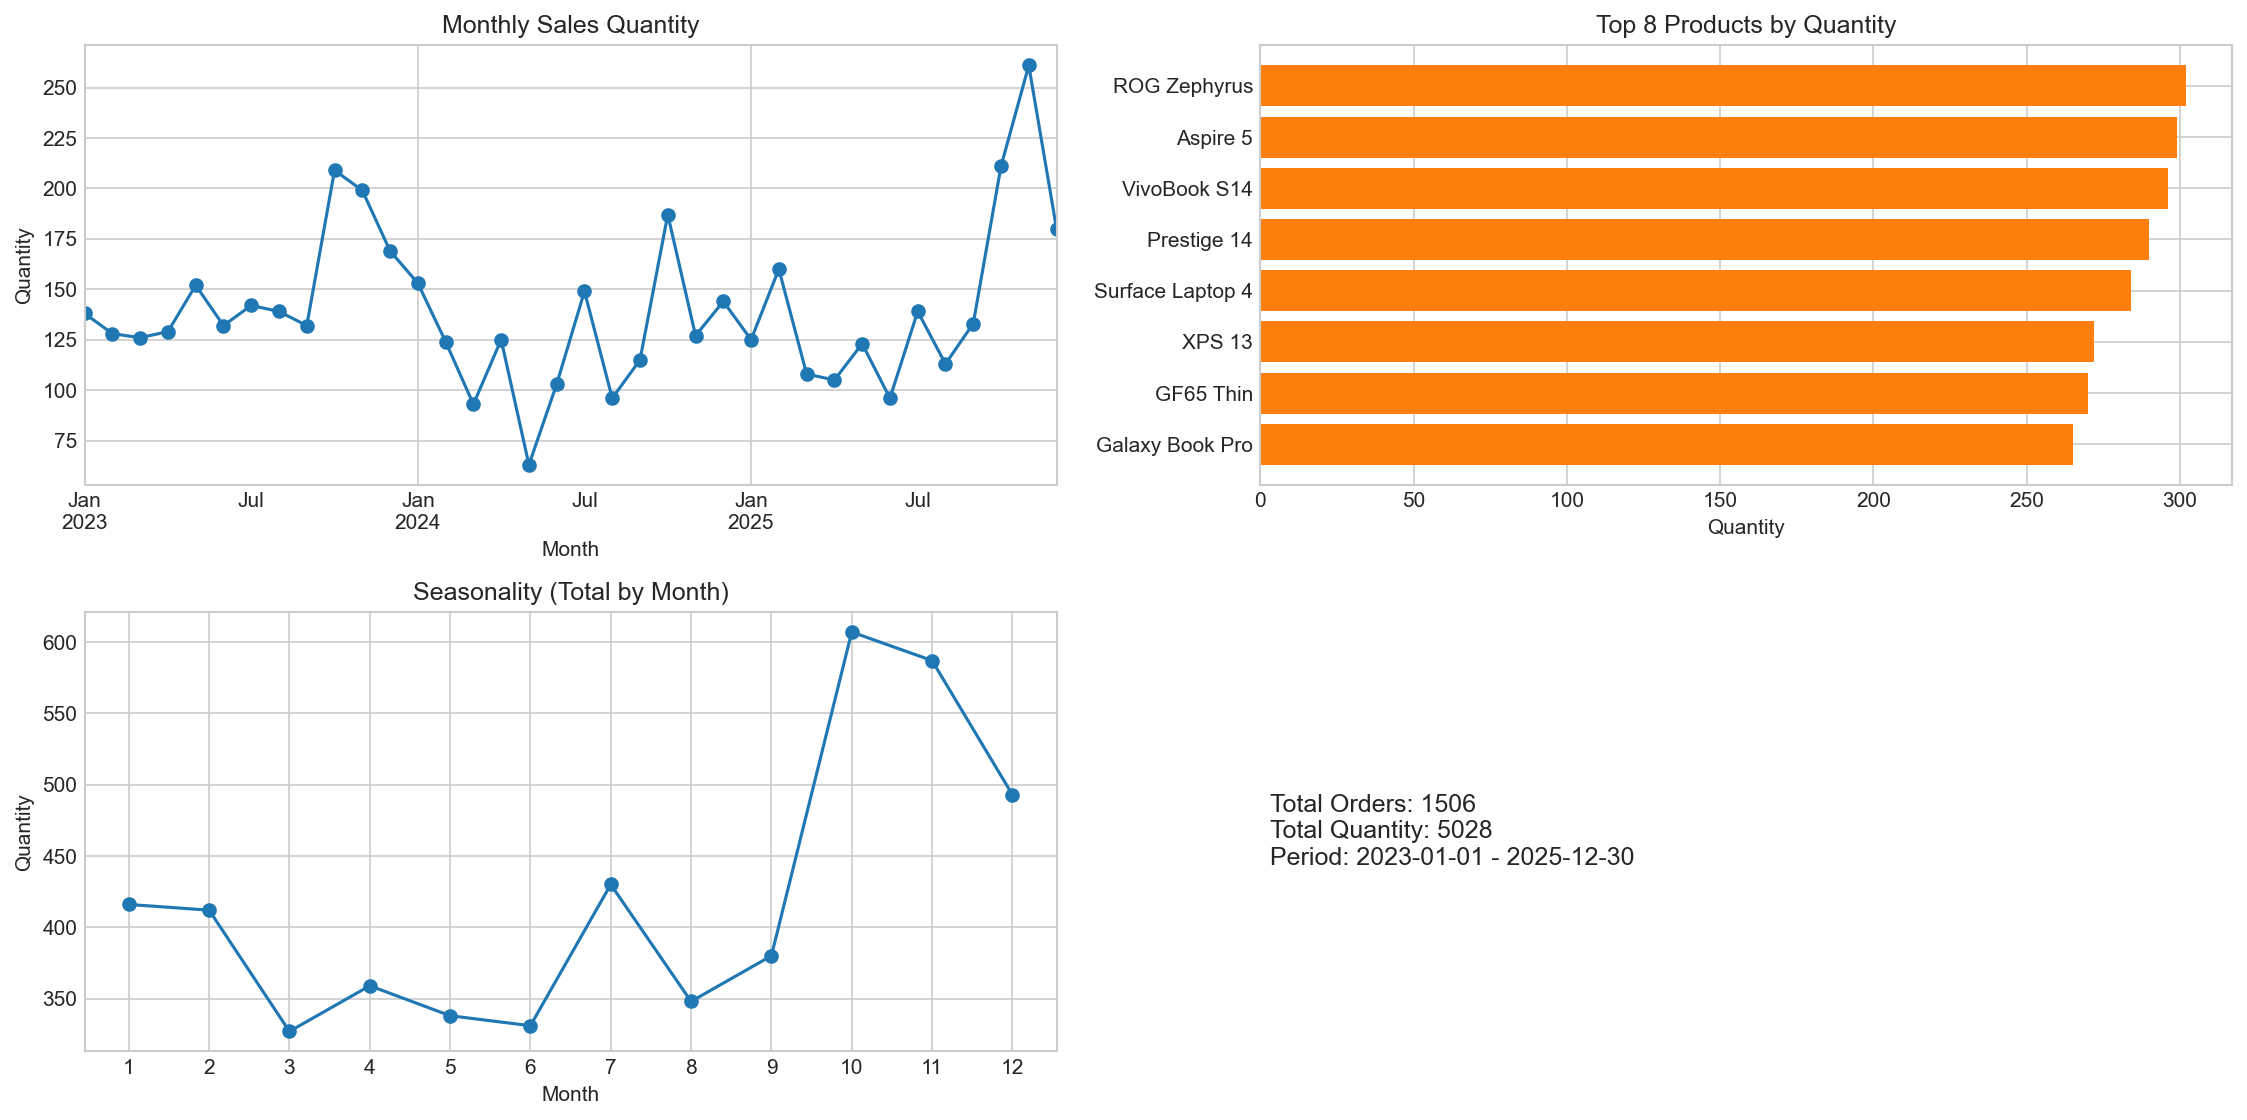
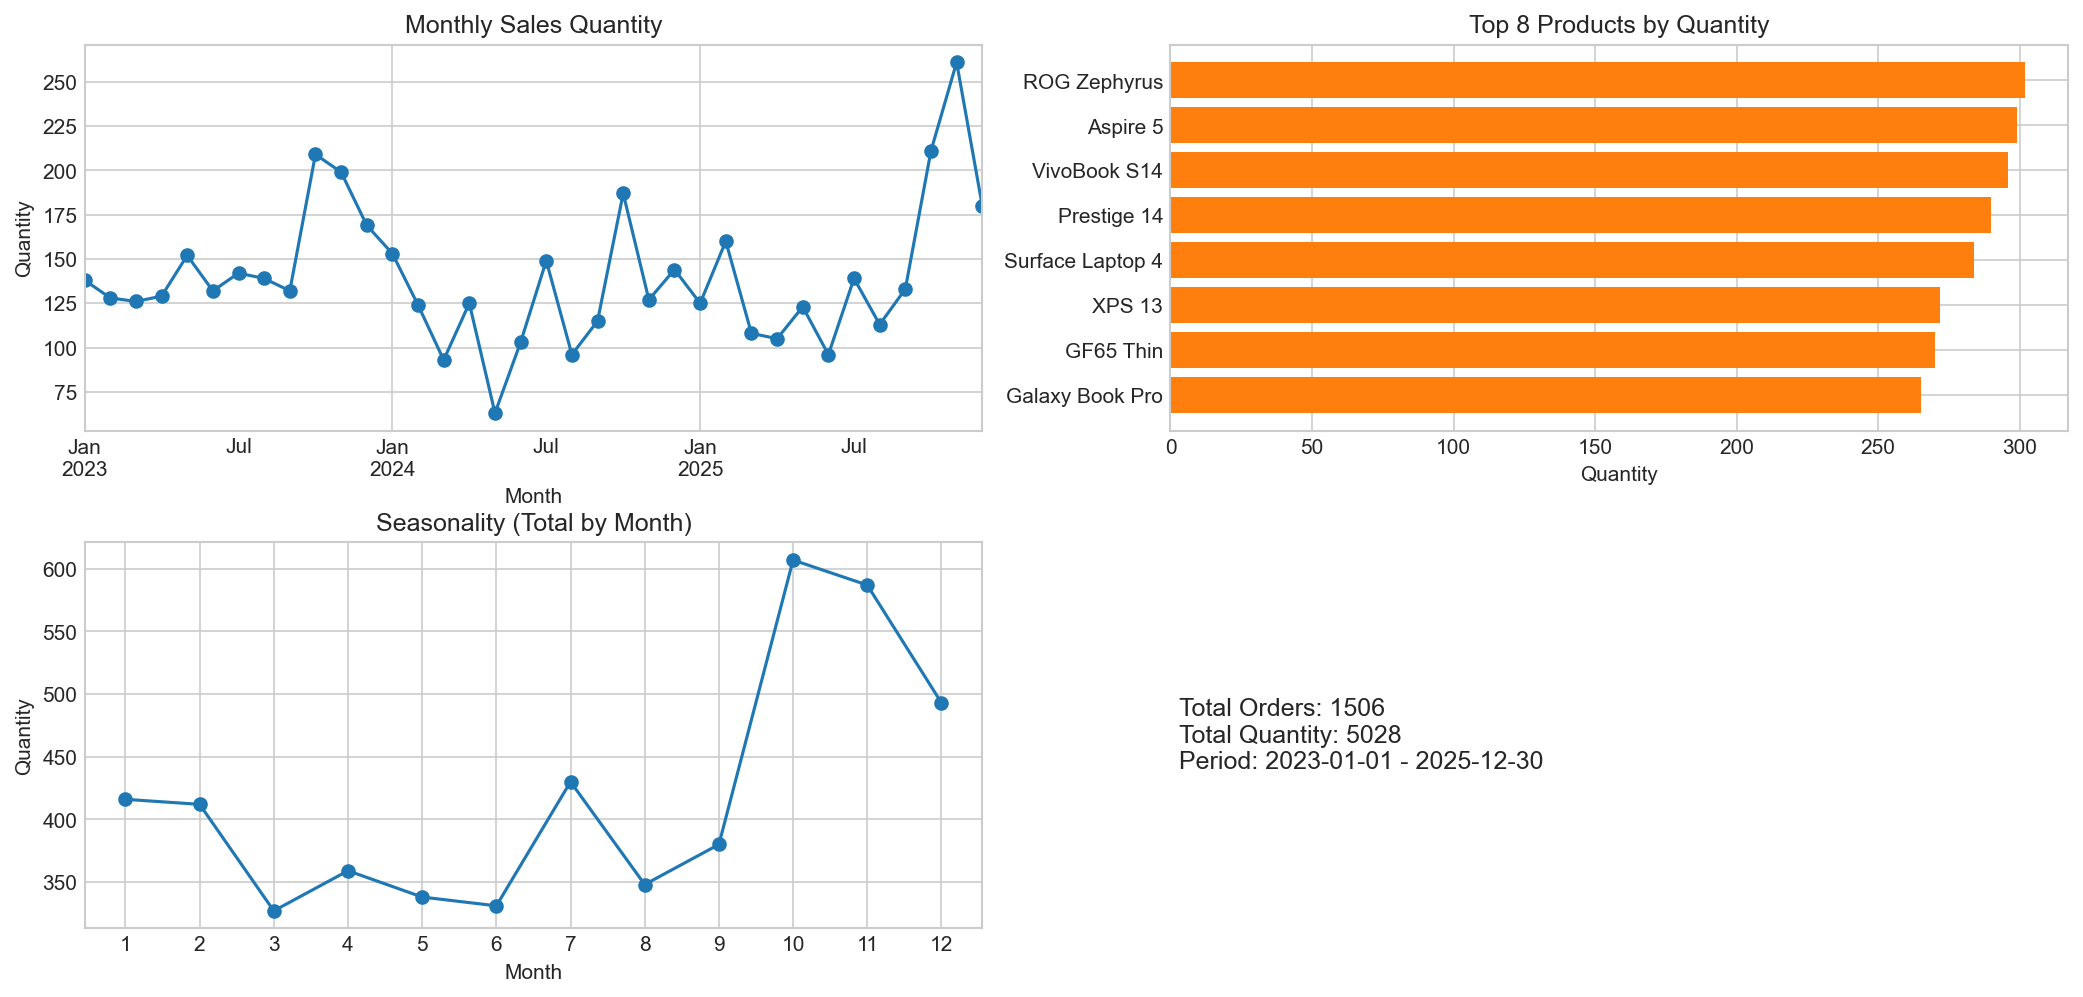
Creating Critical Stock Level Menu

diff --git a/main.py b/main.py
@@ -5,14 +5,17 @@ from orders.sales_manager import SalesManager
 from orders.sales_history import generate_random_sales
 from orders.purchase_manager import show_purchases
 from orders.sales_analytics import show_dashboard
+from inventory.stock_configurator import StockConfigurator
+
 
 def main_menu():
     inventory = InventoryManager()
     sales = SalesManager(inventory)
+    configurator = StockConfigurator(inventory)  # use shared InventoryManager instance
 
     while True:
         print("\n=== INVENTORY MANAGEMENT SYSTEM ===")
-        print("1. View Inventory")
+        print("1. Inventory Management")
         print("2. Create Sales Order")
         print("3. View Sales Orders")
         print("4. View Purchase Orders")
@@ -22,12 +25,28 @@ def main_menu():
         choice = input("Select an option: ").strip()
 
         if choice == "1":
-            inventory.show_inventory()
+            # Inventory sub-menu (loop until user returns to main menu)
+            while True:
+                print("\n--- Inventory ---")
+                print("A. View Current Stock Levels")
+                print("B. Configure Critical Stock Levels")
+                print("C. Back to Main Menu")
+                sub_choice = input("Select an option: ").strip().upper()
+
+                if sub_choice == "A":
+                    inventory.show_inventory()
+                elif sub_choice == "B":
+                    pid = input("Enter Product ID to configure: ").strip()
+                    configurator.define_critical_stock(pid)
+                elif sub_choice == "C":
+                    break
+                else:
+                    print("❌ Invalid sub-choice. Try again.")
 
         elif choice == "2":
             # fully working CLI for sales order creation
             sales.create_order_cli()
-        
+
         elif choice == "3":
             sales.show_orders()
 
@@ -48,9 +67,9 @@ def main_menu():
         elif choice == "7":
             print("Bye!")
             break
-        
         else:
-            print("Invalid choice. Try again.")
+            print("❌ Invalid choice. Try again.")
+
 
 if __name__ == "__main__":
     main_menu()

diff --git a/inventory/stock_configurator.py b/inventory/stock_configurator.py
@@ -1,0 +1,43 @@
+from inventory.inventory_manager import InventoryManager
+
+
+class StockConfigurator:
+    """Interactive helper to configure critical stock levels for products.
+
+    Accepts an `InventoryManager` instance to operate on the shared dataset.
+    If no manager is provided it will create one (backwards compatible).
+    """
+
+    def __init__(self, manager=None):
+        self.manager = manager if manager is not None else InventoryManager()
+
+    def define_critical_stock(self, product_id):
+        """Ask user to set a critical stock level for a specific item.
+        
+        Returns True on success, False on failure or invalid input.
+        """
+        pid = str(product_id)
+        if pid not in self.manager.products:
+            print(f"❌ Product ID {product_id} not found.")
+            return False
+
+        product = self.manager.products[pid]
+        print(f"\nConfiguring critical stock for: {product['product']} (Current stock: {product['current_stock']})")
+
+        try:
+            level = int(input("👉 Define critical stock level: "))
+        except ValueError:
+            print("❌ Invalid input. Must be a number.")
+            return False
+
+        if level < 0:
+            print("❌ Critical stock level must be non-negative.")
+            return False
+
+        # Update the shared InventoryManager instance
+        product["reorder_level"] = level
+        print(f"✅ Critical stock level for {product['product']} set to {level} pcs.")
+
+        # Save changes back to CSV
+        self.manager._save_to_csv()
+        return True

diff --git a/inventory/inventory_manager.py b/inventory/inventory_manager.py
@@ -33,10 +33,10 @@ class InventoryManager:
 
     def show_inventory(self):
         print("\n--- Current Inventory ---")
-        print(f"{'ID':<6} {'Product Name':<25} {'Stock':<8} {'Price':<10}")
-        print("-" * 50)
+        print(f"{'ID':<6} {'Product Name':<25} {'Stock':<8} {'Critical':<10} {'Price':<10}")
+        print("-" * 70)
         for pid, info in sorted(self.products.items()):
-            print(f"{pid:<6} {info['product']:<25} {info['current_stock']:<8} {info['price']:<10.2f}")
+            print(f"{pid:<6} {info['product']:<25} {info['current_stock']:<8} {info['reorder_level']:<10} {info['price']:<10.2f}")
 
     def update_stock(self, product_id, delta):
         pid = str(product_id)

diff --git a/inventory/__init__.py b/inventory/__init__.py
@@ -1,0 +1,6 @@
+"""Inventory package initializer."""
+
+from .inventory_manager import InventoryManager
+from .stock_configurator import StockConfigurator
+
+__all__ = ["InventoryManager", "StockConfigurator"]
